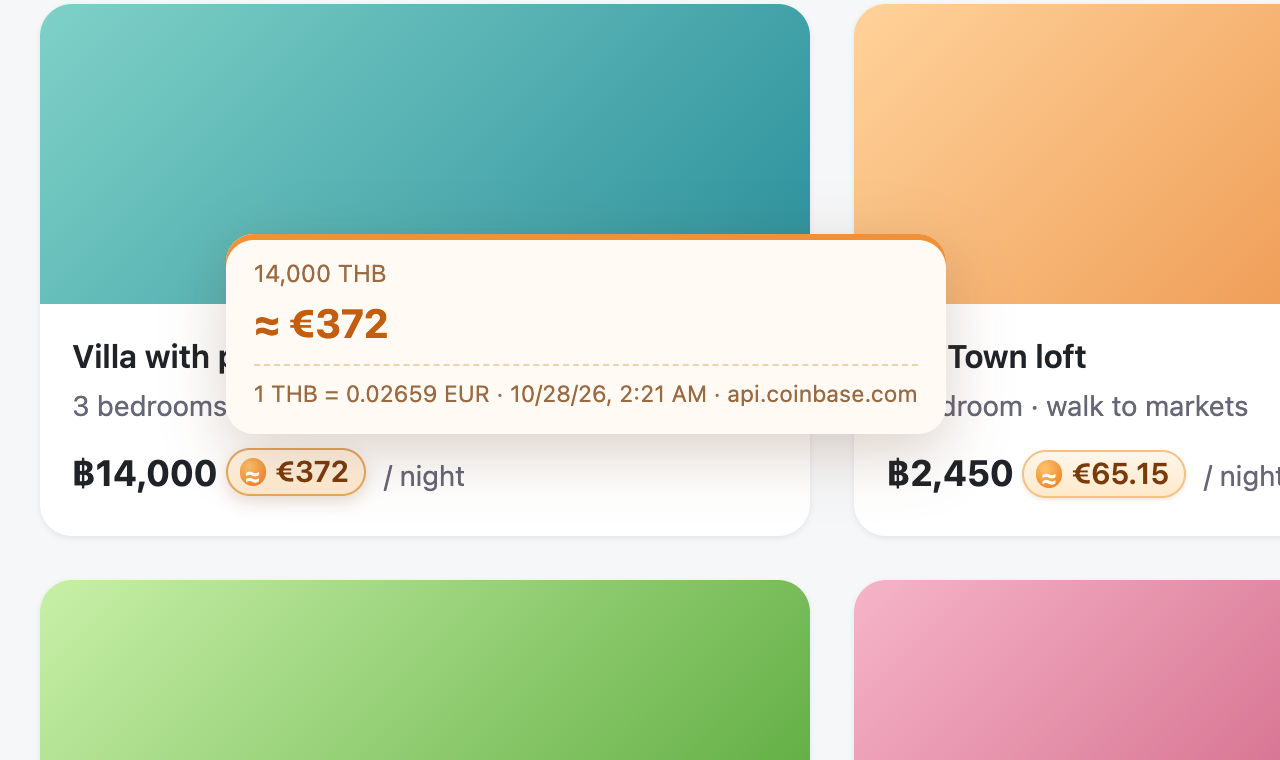
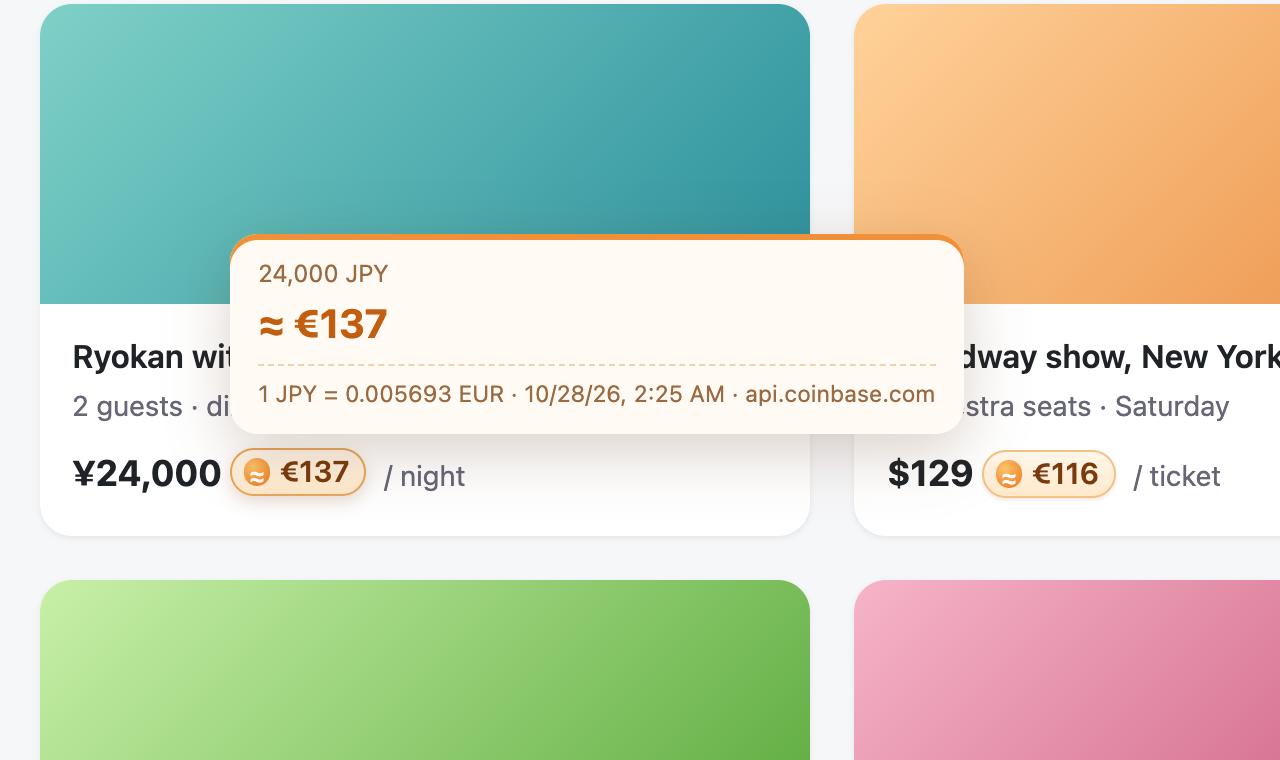
Use a worldwide trip wishlist for demo screenshots
Kyoto, New York, London, Seoul, Mexico City and Istanbul instead of a
single Thai booking page, so the examples cover more currencies.

diff --git a/README.md b/README.md
@@ -17,13 +17,13 @@
 </p>
 
 <p align="center">
-  <img src="docs/assets/demo.png" alt="A Thai booking site where every baht price shows its euro equivalent in a small orange pill" width="820">
+  <img src="docs/assets/demo.png" alt="A trip wishlist with prices in yen, dollars, pounds, won, pesos and lira, each followed by its euro equivalent in a small orange pill" width="820">
 </p>
 
 ## Why
 
-You're booking a villa in Phuket and the site says **฿14,000**. Is that a lot? DirectChange answers
-right there on the page, with a small pill next to the price: **≈ €372**. Hover it for the exact rate
+You're booking a ryokan in Kyoto and the site says **¥24,000** a night. Is that a lot? DirectChange
+answers right there on the page, with a small pill next to the price: **≈ €137**. Hover it for the exact rate
 and when it was fetched.
 
 ## Features
@@ -32,8 +32,8 @@ and when it was fetched.
   (light or dark). It lives in a Shadow DOM, so the site's CSS can't break it.
 - **Live rates.** Rates come from Coinbase's public API (near real time) and are refreshed every
   10 minutes, with open.er-api.com (daily) as a fallback. 150+ currencies.
-- **Reads prices the way people write them.** `฿14,000`, `14 000 bahts`, `1.234,56 €`, `USD 45`,
-  `C$20`, `Rs 900`… even prices split across several HTML tags.
+- **Reads prices the way people write them.** `¥24,000`, `1.234,56 €`, `MX$2,490`, `USD 45`,
+  `14 000 bahts`, `Rs 900`… even prices split across several HTML tags.
 - **Knows where the site is.** A plain `$` on a `.ca` site is Canadian dollars, `¥` on a `.cn` site is
   yuan, `kr` on a `.no` site is Norwegian krone. See [how it decides](#which-currency-is-).
 - **Dynamic pages.** Infinite scroll, filters and single-page apps are converted as content appears.
